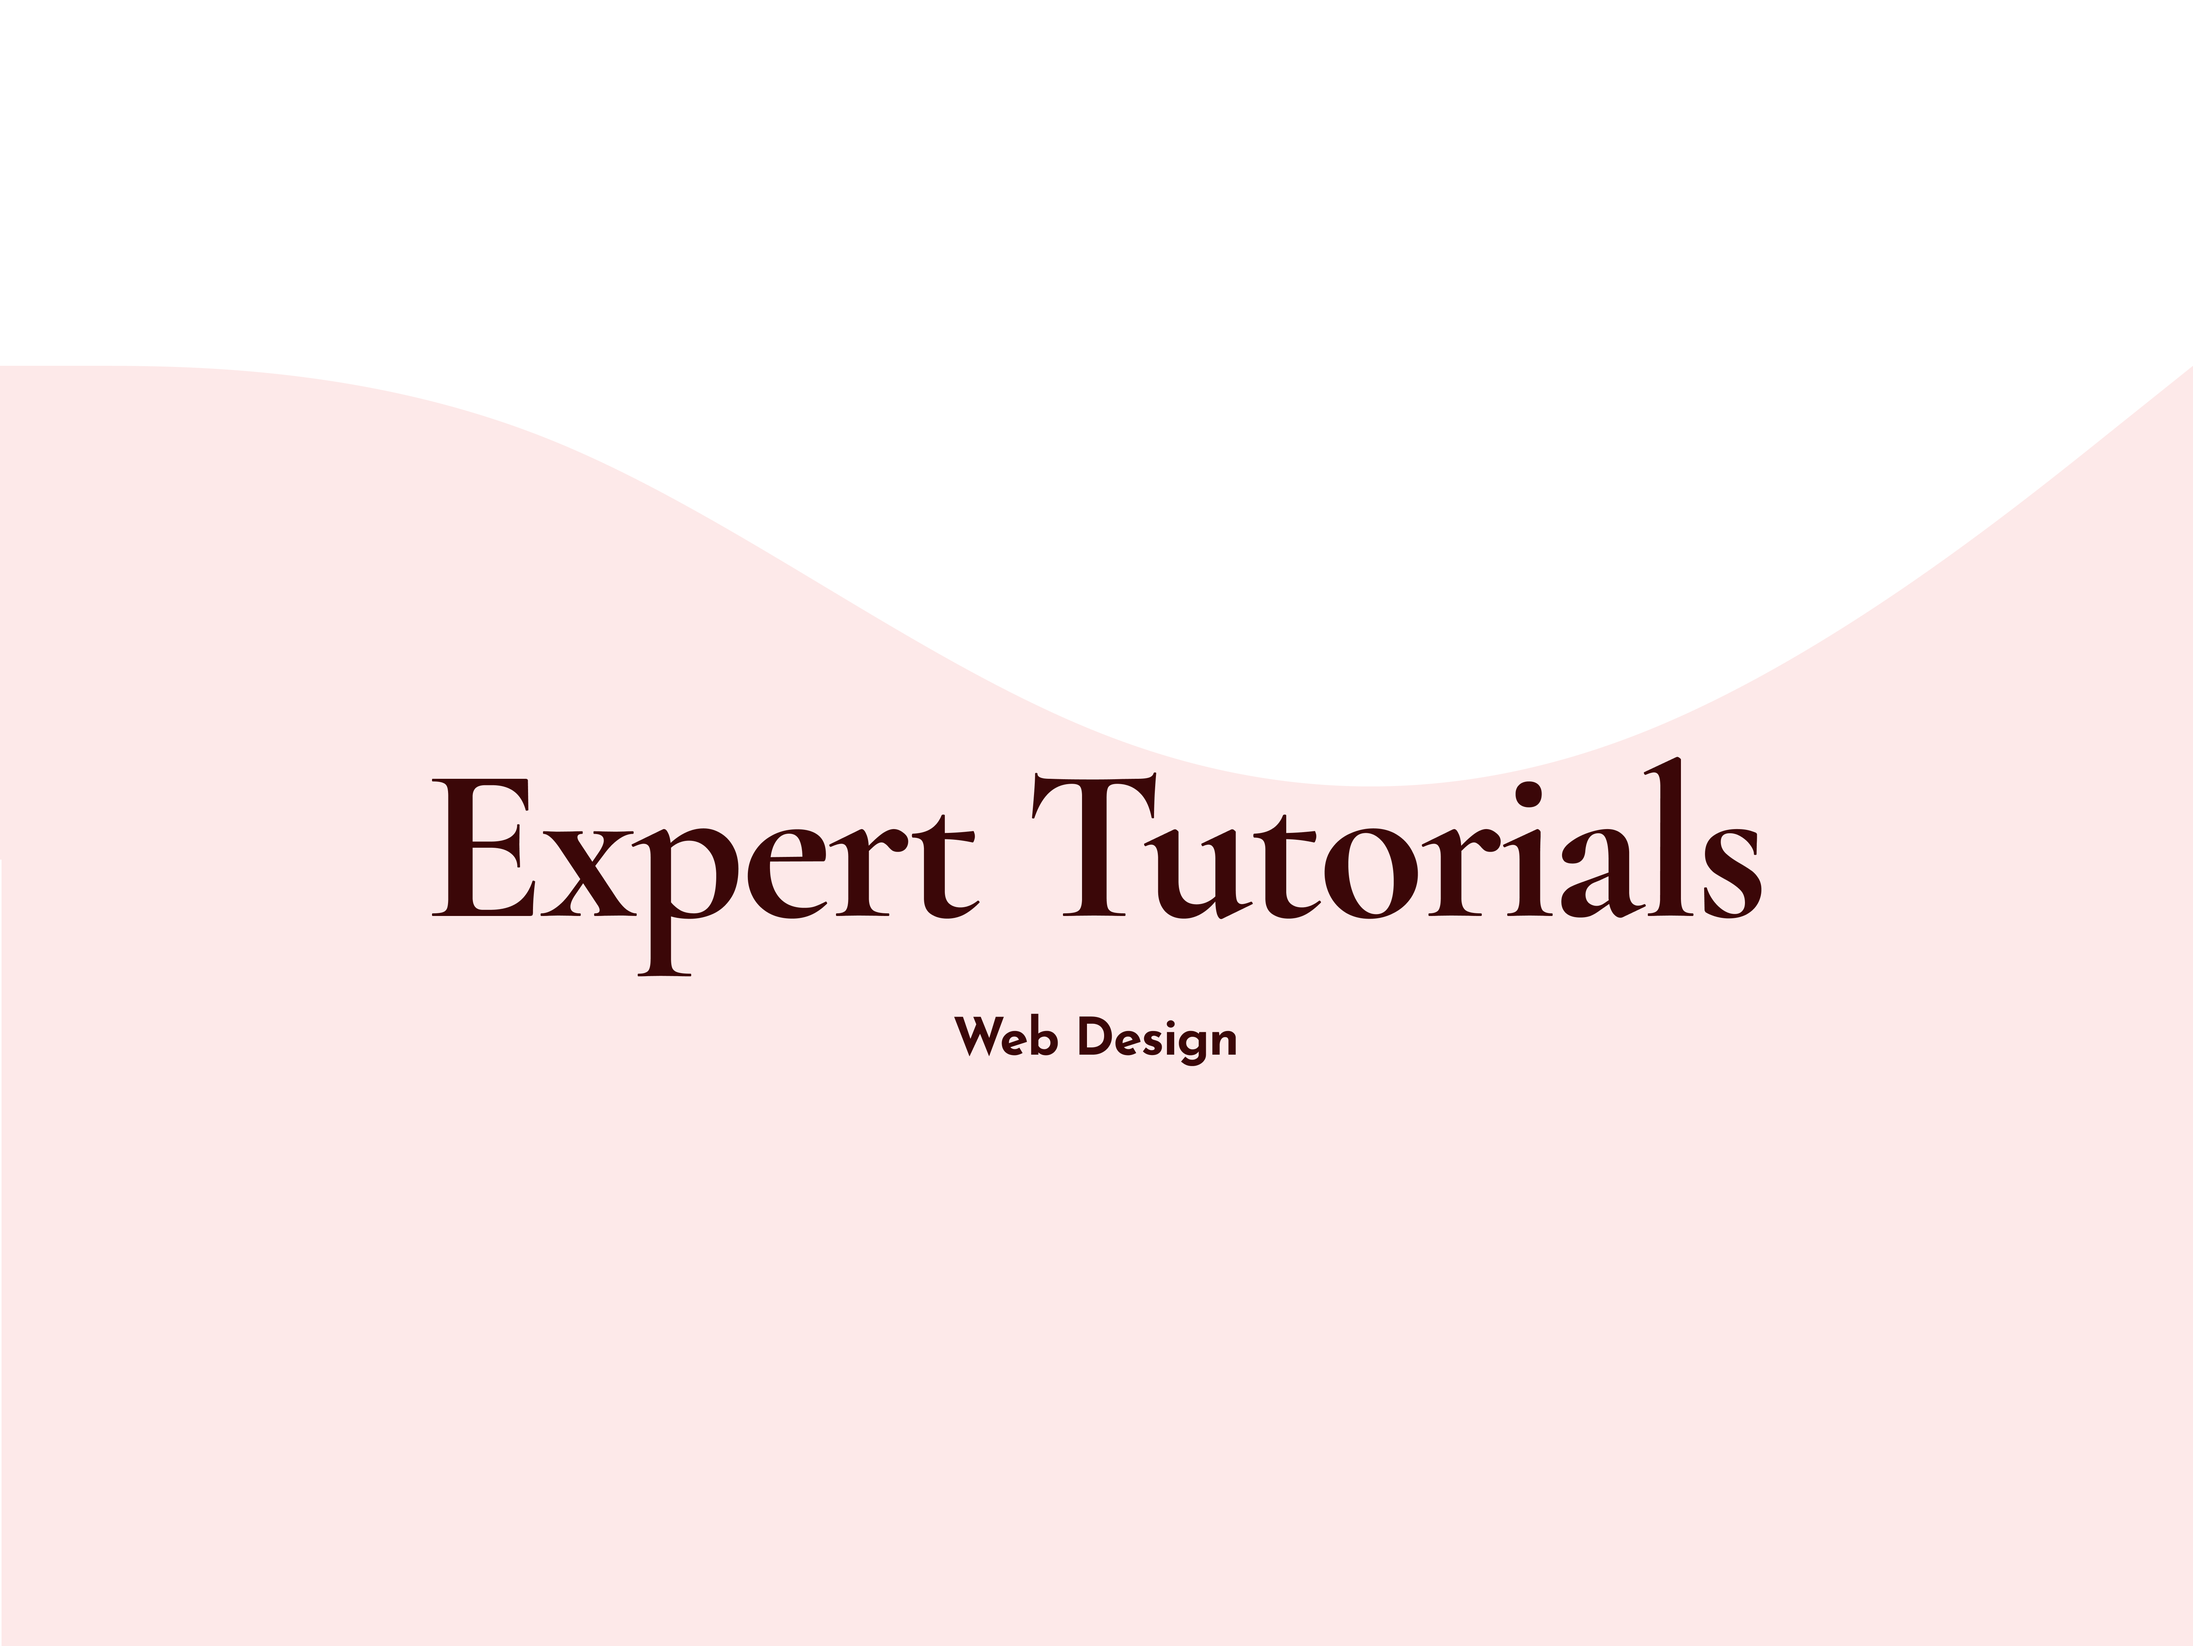
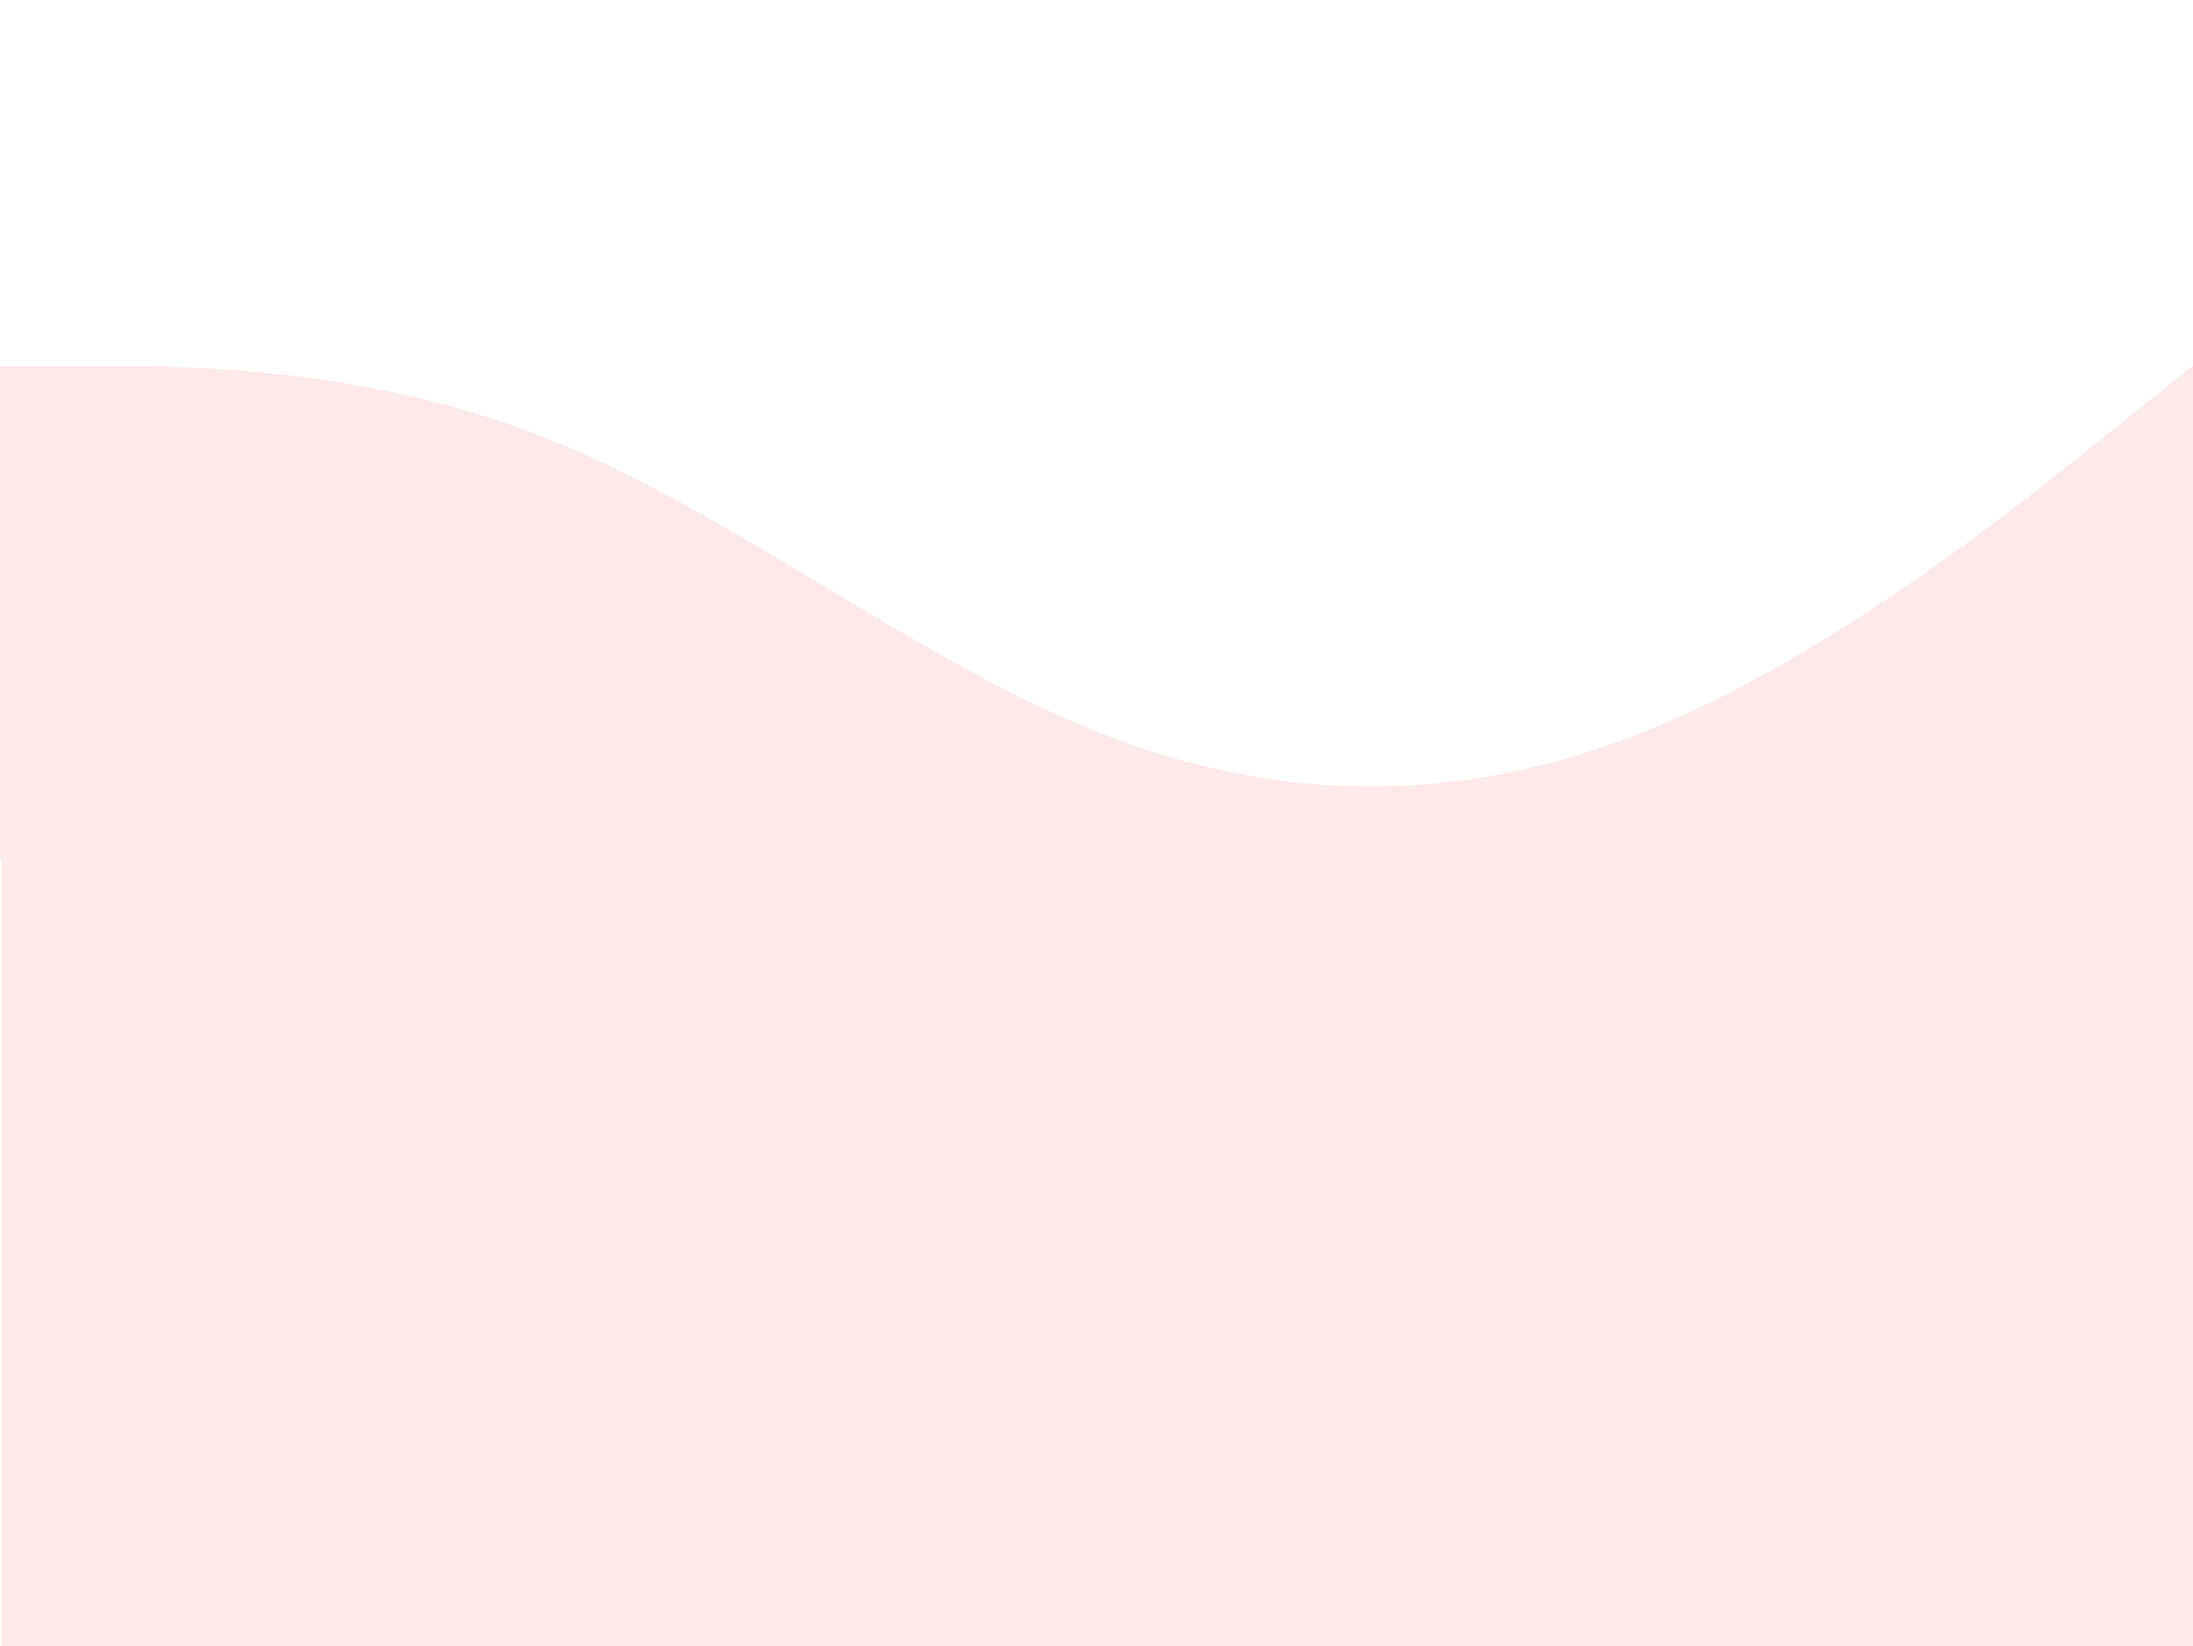
expert

Changed region(s): [[0.4665, 0.4688, 0.8085, 0.5625], [0.1866, 0.4688, 0.4354, 0.5938], [0.4354, 0.625, 0.5598, 0.6562]]

diff --git a/index.html b/index.html
@@ -92,6 +92,11 @@
             <div class="col-md-6">
                 <a href="https://experttutorial.co.in/" target="_blank">
                     <img src="images/expert.png" alt="">
+                    <div class="caption">
+                        <h4 class="">Expert Tutorials</h4>
+                        <div class="" style="color: #212529;">Web Design</div>
+                    </div>
+                    
                 </a>
             </div>
         </div>
